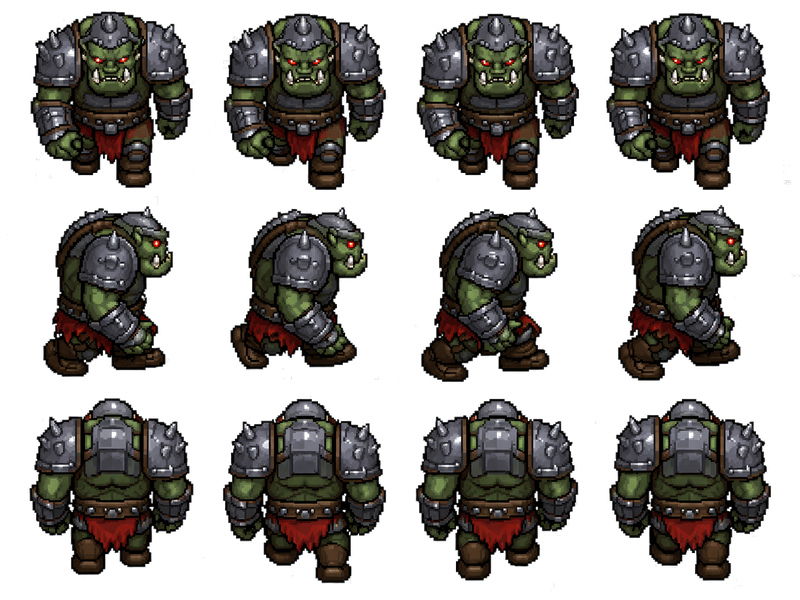
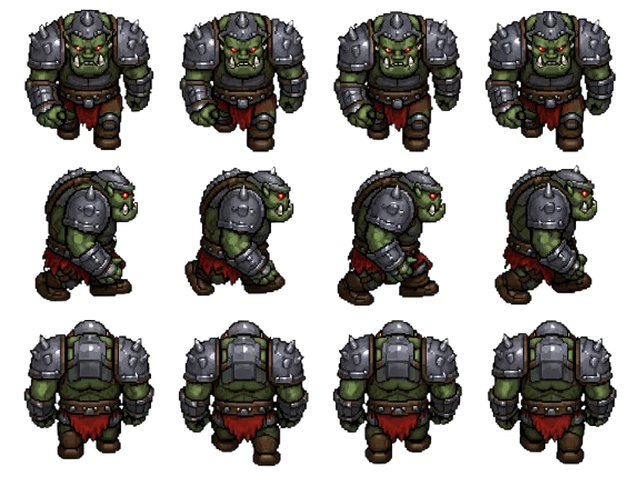
Replace brute sprite sheet with cleaner removebg version
Higher quality source with proper transparency, reprocessed to
160x160 frames (640x480 total). Updated frameWidth in GameScene.

diff --git a/src/scenes/GameScene.js b/src/scenes/GameScene.js
@@ -12,7 +12,7 @@ class GameScene extends Phaser.Scene {
     this.load.image('enemy_grunt',  'assets/enemies/grunt.png');
     this.load.image('enemy_runner', 'assets/enemies/runner.png');
     this.load.spritesheet('brute_walk', 'assets/enemies/brute_walk.png', {
-      frameWidth: 200, frameHeight: 200
+      frameWidth: 160, frameHeight: 160
     });
   }
 
